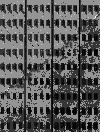
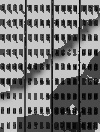
Pseudo incorporate color, change casting.

diff --git a/code/main.py b/code/main.py
@@ -1,7 +1,7 @@
 import numpy as np
 import cv2
 import matplotlib.pyplot as plt
-from entropy import minimize_energy, N
+from entropy import minimize_energy, N, find_luminance_chrominance
 from skimage import img_as_float32
 
 EPSILON = 1e-6 
@@ -11,8 +11,9 @@ def main():
     src_name = 'IMG_1167.jpg'
     mask_name = 'shadow_mask.jpg'
 
-    image = cv2.imread( image_path + src_name )
-    image_gray = cv2.cvtColor(image, cv2.COLOR_BGR2GRAY) 
+    image_color = cv2.imread( image_path + src_name )
+    _, chrom = find_luminance_chrominance( image_color )
+    image_gray = cv2.cvtColor(image_color, cv2.COLOR_BGR2GRAY) 
     image = image_gray
     # cv2.imshow("i0", image_gray)
     mask = cv2.imread( image_path + mask_name )
@@ -29,10 +30,16 @@ def main():
     optimal_l = minimize_energy(image, mask_gray, initial_l, \
                                 phi_l=phi_l, phi_p=phi_p, \
                                 omega_t=omega_t, omega_p=omega_p, \
-                                img_name=src_name).reshape((image.shape[0], image.shape[1]))
+                                img_name=src_name, num_iter=30).reshape((image.shape[0], image.shape[1]))
     image_gray = image_gray.astype(np.int64)
     optimal_r = np.log(image_gray + EPSILON).astype(np.int64) - optimal_l.astype(np.int64)
     optimal_img = np.multiply(np.exp(optimal_l), np.exp(optimal_r)).astype(np.uint8)
+    plt.imshow(optimal_img)
+    plt.show()
+    max_l_star = np.max(optimal_img)
+    # plt.imshow(np.flip(chrom, axis=2))
+    plt.imshow(np.multiply(np.flip(chrom, axis=2), np.stack([optimal_img] * 3, axis=2) / max_l_star))
+    plt.show()
     # cv2.imshow("i", optimal_img)
     # cv2.waitKey(0)
     print("--------------OPTIMAL--------------")

diff --git a/code/entropy.py b/code/entropy.py
@@ -71,6 +71,7 @@ def minimize_energy(image, mask, initial_l, phi_l, phi_p, omega_t, omega_p, lamb
     Minimize the energy function using iterative optimization.
     :return: Optimal illumination estimate (IN LOG DOMAIN!!!!!!!!!!)
     """
+
     h, w = image.shape[0], image.shape[1]
     num_pixels = h * w
 
@@ -128,11 +129,16 @@ def minimize_energy(image, mask, initial_l, phi_l, phi_p, omega_t, omega_p, lamb
         optimal_r = np.log(image + EPSILON).astype(np.int64) - \
             curr_l.reshape((image.shape[0], image.shape[1])).astype(np.int64)
         l_star = np.exp(curr_l.reshape((image.shape[0], image.shape[1])))
-        curr_image = np.exp(curr_l.reshape((image.shape[0], image.shape[1])) + prev_r).astype(np.uint8)
+        curr_image = np.exp(curr_l.reshape((image.shape[0], image.shape[1])) + prev_r)
+        curr_image /= np.max(curr_image)
+        # print(curr_image)
+        # print((curr_image * 255).astype(np.uint8))
+        # plt.imshow(curr_image, cmap='gray')
+        # plt.show()
         # curr_image = np.multiply(l_star / np.max(l_star), np.exp(prev_r)).astype(np.uint8)
         # curr_image = np.multiply(np.exp(curr_l.reshape(
         #     (image.shape[0], image.shape[1]))), np.exp(prev_r)).astype(np.uint8)
-        cv2.imwrite(f'../results/{img_name}_{iteration}.jpg', curr_image)
+        cv2.imwrite(f'../results/{img_name}_{iteration}.jpg', (curr_image * 255).astype(np.uint8))
         # curr_image = apply_new_illumination(curr_image, curr_l.reshape((h,w)))
 
     return curr_l
